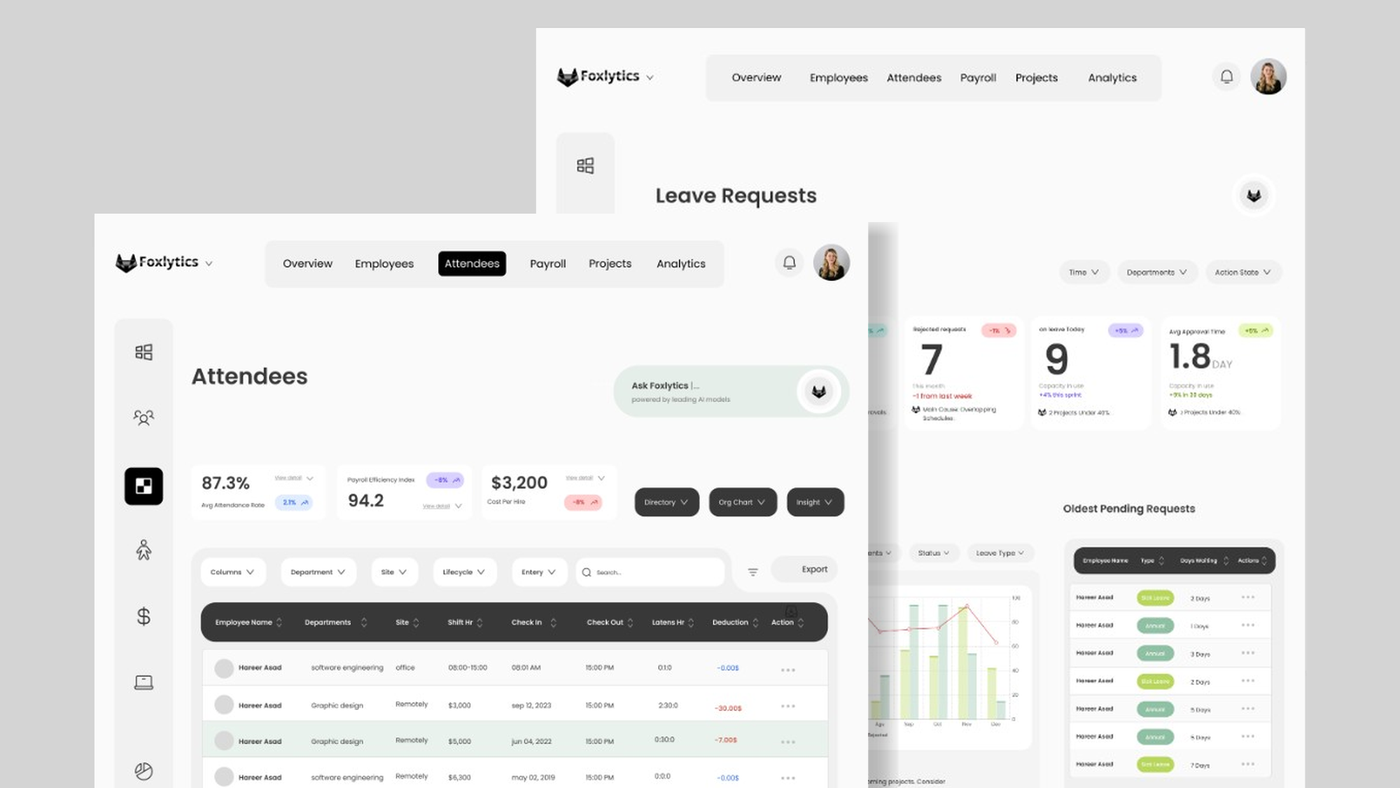
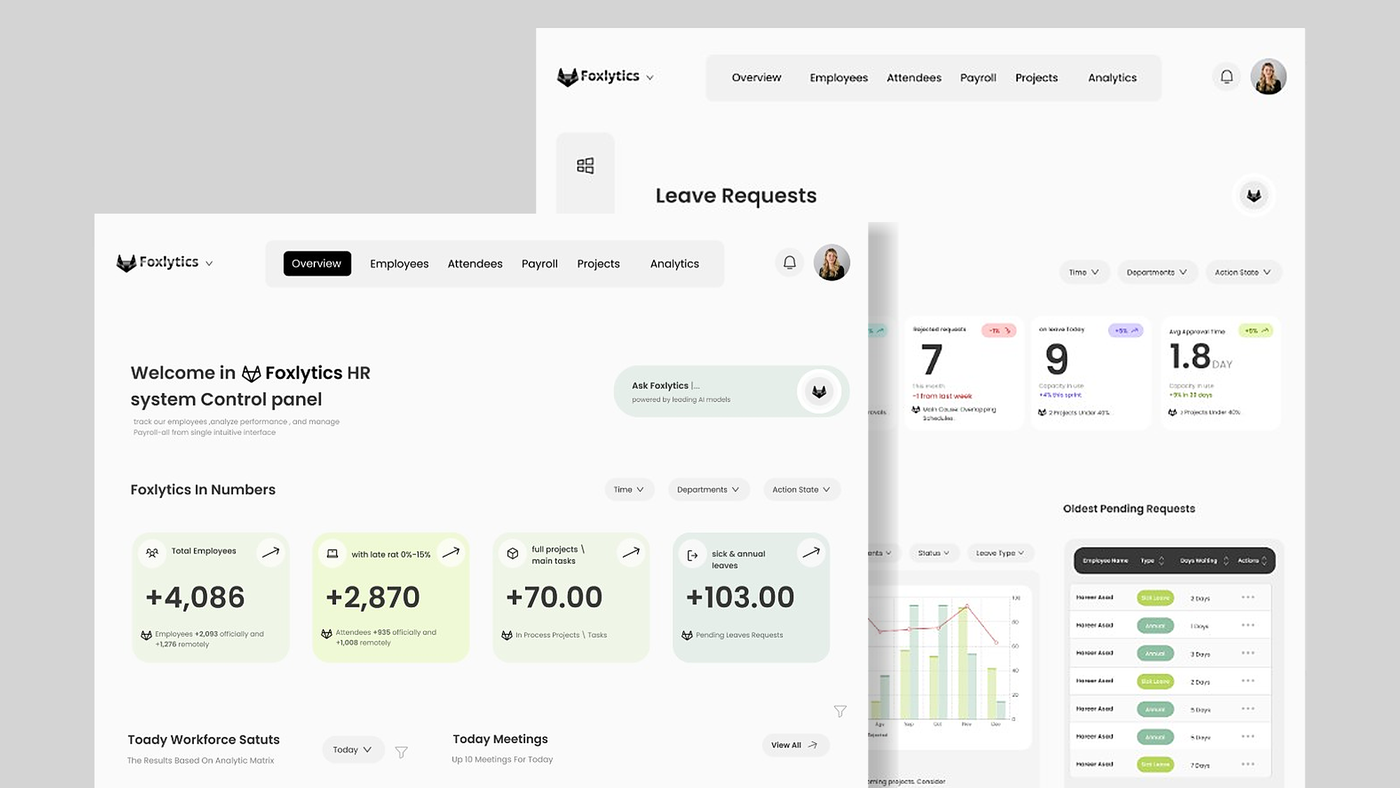
Two-page mockup: front page is now the Overview screen, sharpened for high quality
Claude-Session: https://claude.ai/code/session_01FdYAnoP1AuAPuCnLWf7gdc

diff --git a/behance-cover/mockups/set14b.py b/behance-cover/mockups/set14b.py
@@ -1,0 +1,35 @@
+# Two overlapping web pages on grey ("nuro"): the back page becomes Leave Requests, the front page
+# Overview (welcome screen), each shown from the top of the page (intro first). The front page's soft shadow on the
+# back page is measured from the original and laid back on. Behance artboard 1400x788 (+2x) and
+# Upwork 4:3 1000x750 (+2x, JPEG).
+import numpy as np
+from PIL import Image, ImageFilter
+I = '/tmp/claude-0/-home-user-claude-Ai-website-1/fd49522e-f0ff-52ed-b6c7-08cca43cc4fd/images/'
+base = Image.open(I + '167.webp').convert('RGB'); W0, H0 = base.size
+BACK, FRONT = (766, 135, 1864, H0), (135, 400, 1240, H0)
+g = np.asarray(base.convert('L')).astype(np.float32)
+prof = np.clip(np.median(g[450:1000, 1240:1300], 0) / 255, 0, 1)          # shadow strength by distance from the front page
+def page(f, w, h):
+    p = Image.open(I + f).convert('RGB'); k = w / p.width
+    p = p.resize((w, round(p.height * k)), Image.LANCZOS).crop((0, 0, w, h))
+    # the screenshots are small, so they are enlarged; a light unsharp mask brings back crisp text edges
+    return p.filter(ImageFilter.UnsharpMask(radius=0.8 * k, percent=90, threshold=2))
+for K in (1, 2):
+    sc = base.resize((W0 * K, H0 * K), Image.LANCZOS); a = np.asarray(sc).astype(np.float32).copy()
+    l, t, r, b = [v * K for v in BACK]
+    a[t:b, l:r] = np.asarray(page('168.jpg', r - l, b - t)).astype(np.float32)
+    sh = np.ones((H0 * K, W0 * K), np.float32); n = len(prof) * K
+    sh[FRONT[1] * K + 12 * K:, FRONT[2] * K:FRONT[2] * K + n] = np.repeat(prof, K)[None, :]
+    ramp = np.clip((np.arange(H0 * K) - (FRONT[1] + 2) * K) / (30 * K), 0, 1)[:, None]   # fade in at the top corner
+    sh = 1 - (1 - sh) * ramp
+    a[:, :, :] *= np.where(np.zeros_like(sh, bool), 1, sh)[..., None] if True else 1
+    l, t, r, b = [v * K for v in FRONT]
+    a[t:b, l:r] = np.asarray(page('170.jpg', r - l, b - t)).astype(np.float32)
+    out = Image.fromarray(a.clip(0, 255).astype(np.uint8)); W, H = out.size
+    cw = round(H * 4 / 3); x0 = (W - cw) // 2                                   # Upwork 4:3
+    out.crop((x0, 0, x0 + cw, H)).resize((2000, 1500) if K == 2 else (1000, 750), Image.LANCZOS).save(
+        f'uw-nuro2-{2000 if K == 2 else 1000}.jpg', quality=97, subsampling=0)
+    ch = round(W * 9 / 16); y0 = 95 * K                                         # Behance 16:9, top of both pages kept
+    out.crop((0, y0, W, y0 + ch)).resize((2800, 1576) if K == 2 else (1400, 788), Image.LANCZOS).save(
+        f'ab-nuro2-{2800 if K == 2 else 1400}.png')
+print('done')
